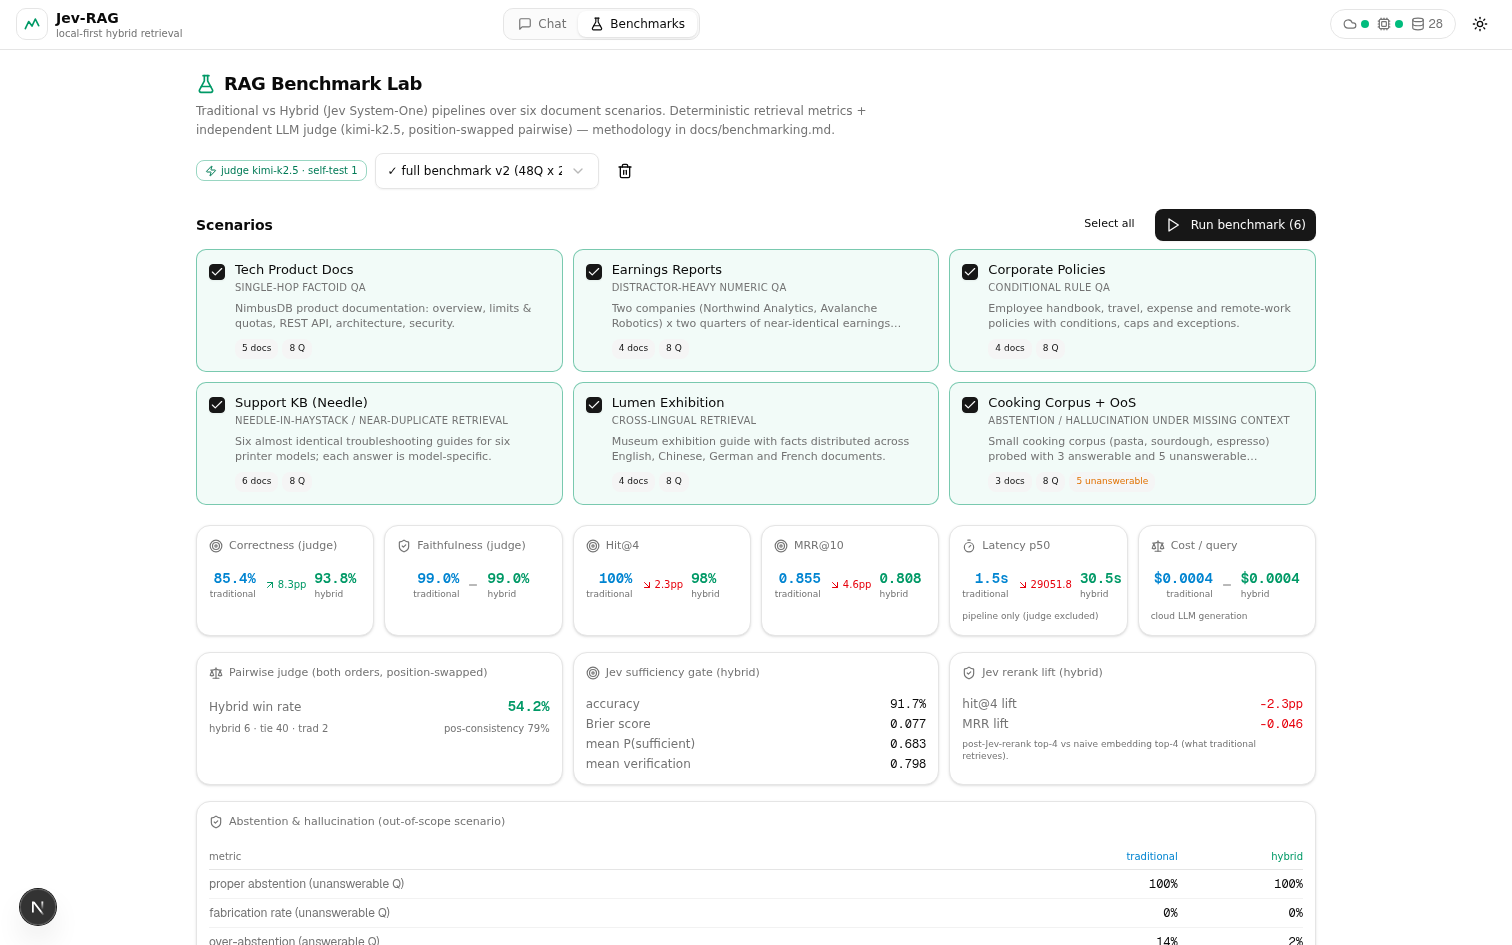
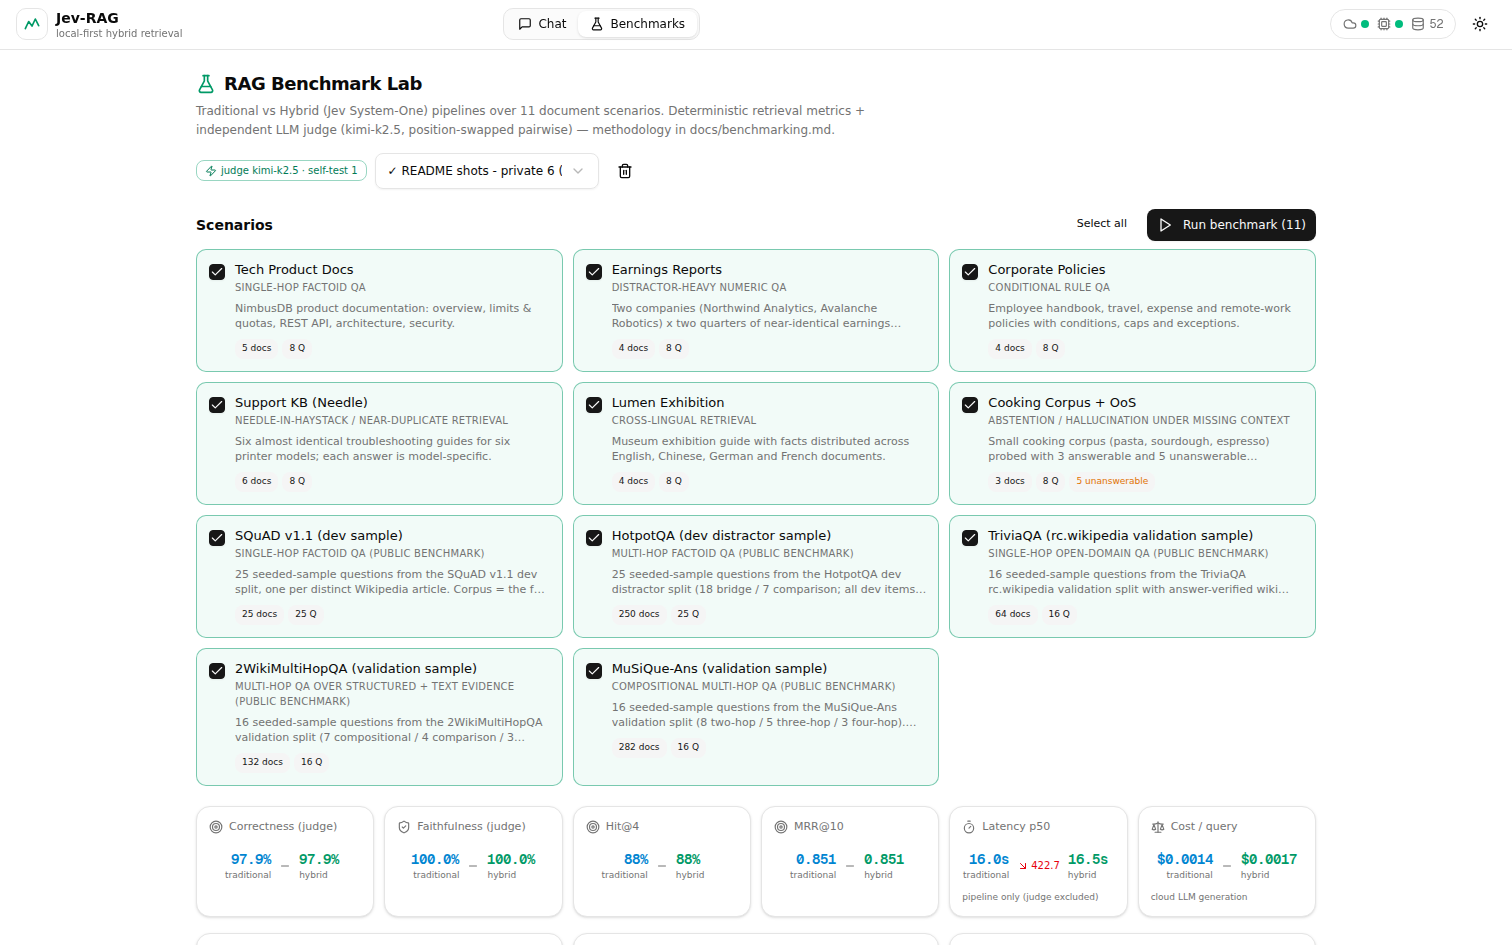
docs(assets): refresh the four README UI screenshots from the live app
The four live-browser shots dated from 2026-09-29 and predated bc1c93e, so the
benchmark pair still shows a 6-scenario lab and the hardcoded "six document
scenarios" subtitle; the catalog is 11 scenarios now. Re-captured against a
production build (bun run build && bun run start) so the Next.js dev-tools badge
stops appearing in every published image.

Added scripts/capture_ui_screenshots.py so a refresh is one command rather than a
remembered click path: Playwright against the running stack, 1512x945 @1x (the size
the README already ships), --only/--base-url/--out-dir. Two app behaviours it has
to work around are encoded in it: Compare mode auto-opens the trace panel
(store.ts::send), and a completed bench run with no judge summary renders empty
metric cards and blank charts.

bench-charts.png needed a populated dashboard, so a real run backs it - the 6
private corpora x 8 Q x 2 arms (48 Q, 96 rows), run c075af23, completed, summary
present. That run is the screenshot's data, not a published result: the +-5 pp
noise floor in the root AGENTS.md still governs anything compared against it.

Docs: README alt text now names what the shots actually show; docs/AGENTS.md and
scripts/AGENTS.md record the regeneration path and its two preconditions.

Verified: bun run lint clean, 173 backend tests pass, validate_docs.py exit 0,
and the app re-checked in a live browser with no console errors.

diff --git a/scripts/capture_ui_screenshots.py b/scripts/capture_ui_screenshots.py
@@ -1,0 +1,206 @@
+#!/usr/bin/env python3
+"""Capture the README / docs UI screenshots from the *live* app with Playwright.
+
+Why this exists: `docs/assets/img/{chat-compare,trace-panel,bench-lab,bench-charts}.png`
+are the four live-browser shots the README and `docs/usage.md` embed. They may only be
+regenerated from a running stack — the local FastAPI backend plus the Next.js frontend on
+:3000 — never from a mock or an image model (see `docs/AGENTS.md`, `assets/img/`).
+
+Prerequisites (nothing is installed by this script):
+  1. `bash scripts/dev.sh` from the repo root — backend :8000 + frontend :3000
+  2. a Playwright-enabled interpreter with the Chromium build already downloaded, e.g.
+     `/root/pwenv-t12/bin/python` on this box. `playwright` is deliberately NOT a
+     `backend/.venv` dependency, because it is only needed for docs rendering.
+
+Usage:
+  /root/pwenv-t12/bin/python scripts/capture_ui_screenshots.py
+  /root/pwenv-t12/bin/python scripts/capture_ui_screenshots.py --only trace-panel
+  /root/pwenv-t12/bin/python scripts/capture_ui_screenshots.py --base-url http://localhost:3000
+
+Each shot is a 1512x945 viewport at device_scale_factor=1 (the pixel size the README
+already ships, so the README table layout and repo weight do not move) in light theme.
+Asking the questions costs real cloud-LLM calls: two per question in Compare mode
+(one per pipeline), so the default two questions are four calls.
+"""
+from __future__ import annotations
+
+import argparse
+import sys
+from pathlib import Path
+
+try:
+    from playwright.sync_api import expect, sync_playwright
+except ModuleNotFoundError:  # pragma: no cover - operator guidance
+    sys.exit(
+        "playwright is not importable by this interpreter.\n"
+        "Use a Playwright-enabled interpreter (e.g. /root/pwenv-t12/bin/python); it is\n"
+        "not a backend/.venv dependency on purpose. See this script's docstring."
+    )
+
+REPO_ROOT = Path(__file__).resolve().parents[1]
+
+# 1512x945 @1x — the size the four existing shots were captured at.
+VIEWPORT = {"width": 1512, "height": 945}
+
+# Two questions over the shipped bench corpora, chosen because they read well and show
+# what the product is for: a multi-hop tech-docs lookup, then a finance question whose
+# near-identical distractor (Avalanche Robotics) is the whole point of the comparison.
+QUESTIONS = [
+    "NimbusDB: what are the Pro tier's sustained throughput and concurrent connection "
+    "limits, and which replication tier should ledger writes use?",
+    "What revenue did Northwind Analytics report for Q3 FY2026, and how did its cloud "
+    "analytics segment perform?",
+]
+
+SHOTS = ("chat-compare", "trace-panel", "bench-lab", "bench-charts")
+
+ANSWER_TIMEOUT_MS = 300_000  # hybrid answers run the local decision model + a cloud call
+
+
+def shot(page, out_dir: Path, name: str) -> None:
+    path = out_dir / f"{name}.png"
+    page.screenshot(path=str(path))
+    try:
+        shown = path.relative_to(REPO_ROOT)
+    except ValueError:  # --out-dir outside the repo
+        shown = path
+    print(f"saved {shown} ({path.stat().st_size // 1024} KB)")
+
+
+SCROLL_TO_TOP_JS = """(el, off) => {
+  let node = el.parentElement;
+  while (node && node !== document.body) {
+    const oy = getComputedStyle(node).overflowY;
+    if (oy === "auto" || oy === "scroll") {
+      node.scrollTop += el.getBoundingClientRect().top
+        - node.getBoundingClientRect().top - off;
+      return true;
+    }
+    node = node.parentElement;
+  }
+  window.scrollBy(0, el.getBoundingClientRect().top - off);
+  return false;
+}"""
+
+
+def scroll_to_in_container(page, locator, offset: int = 10, settle_ms: int = 700) -> None:
+    """Place `locator` `offset` px below the top of its scroll container.
+
+    Both scrolling views in this app scroll an inner div, not the window, so
+    window-level scrolling would land somewhere arbitrary.
+    """
+    locator.scroll_into_view_if_needed()
+    locator.evaluate(SCROLL_TO_TOP_JS, offset)
+    page.wait_for_timeout(settle_ms)  # recharts animates in on mount/scroll
+
+
+def wait_booted(page) -> None:
+    page.get_by_text("Jev-RAG").first.wait_for(state="visible", timeout=60_000)
+    # The header shows this while app.init() warms the stack and fetches documents.
+    booting = page.get_by_text("waking local models")
+    try:
+        booting.first.wait_for(state="detached", timeout=120_000)
+    except Exception:
+        print("  ! still showing 'waking local models' — capturing anyway", file=sys.stderr)
+    page.wait_for_timeout(1_200)
+
+
+def ask(page, question: str) -> None:
+    box = page.locator("textarea").first
+    box.click()
+    box.fill(question)
+    box.press("Enter")
+    # The composer locks while a stream is in flight; the lock is the only reliable
+    # "the answer finished" signal the UI exposes.
+    try:
+        expect(box).to_be_disabled(timeout=25_000)
+    except AssertionError:
+        pass  # very short answer finished before we polled
+    expect(box).to_be_enabled(timeout=ANSWER_TIMEOUT_MS)
+    page.wait_for_timeout(1_500)  # let latency/token/cost badges settle
+
+
+def capture(page, out_dir: Path, want: set[str]) -> None:
+    chat_shots = want & {"chat-compare", "trace-panel"}
+    if chat_shots:
+        print("· chat: new conversation, Compare mode, two questions")
+        page.get_by_role("button", name="New chat").click()
+        page.get_by_role("tab", name="Compare").click()
+        for question in QUESTIONS:
+            print(f"  asking: {question[:64]}…")
+            ask(page, question)
+
+        # Frame the last exchange from its question bubble down: the answers are long
+        # enough that two pairs do not fit, and a mid-sentence clip at the top edge
+        # reads as a mistake.
+        scroll_to_in_container(page, page.get_by_text(QUESTIONS[-1]).first,
+                               offset=110, settle_ms=500)
+
+        if "chat-compare" in want:
+            # Compare mode auto-opens the trace panel (store.ts `send`), which would
+            # squeeze the two answers into narrow columns — close it for this shot.
+            close = page.get_by_role("button", name="Close trace panel")
+            if close.count():
+                close.click()
+                page.wait_for_timeout(600)
+            shot(page, out_dir, "chat-compare")
+
+    if "trace-panel" in want:
+        print("· trace panel: last hybrid answer")
+        page.get_by_role("button", name="View trace").last.click()
+        expect(page.get_by_text("Pipeline trace")).to_be_visible(timeout=15_000)
+        page.wait_for_timeout(1_200)
+        shot(page, out_dir, "trace-panel")
+        page.get_by_role("button", name="Close trace panel").click()
+        page.wait_for_timeout(400)
+
+    if not want & {"bench-lab", "bench-charts"}:
+        return
+
+    print("· benchmark lab")
+    page.get_by_role("button", name="Switch to Benchmarks").click()
+    expect(page.get_by_text("RAG Benchmark Lab")).to_be_visible(timeout=20_000)
+    # BenchView.init() loads the catalog + run list, then auto-selects the newest
+    # completed run — that is what puts the metric cards and both panels on screen.
+    expect(page.get_by_text("loading runs…")).to_be_hidden(timeout=60_000)
+    expect(page.get_by_text("Correctness per scenario")).to_be_visible(timeout=90_000)
+    page.wait_for_timeout(1_500)
+
+    if "bench-lab" in want:
+        shot(page, out_dir, "bench-lab")
+
+    if "bench-charts" in want:
+        scroll_to_in_container(
+            page, page.locator('[data-slot="card"]', has_text="Correctness per scenario").first)
+        shot(page, out_dir, "bench-charts")
+
+
+def main() -> None:
+    ap = argparse.ArgumentParser(description=__doc__.splitlines()[0])
+    ap.add_argument("--base-url", default="http://localhost:3000",
+                    help="running frontend (default: %(default)s)")
+    ap.add_argument("--out-dir", default=str(REPO_ROOT / "docs" / "assets" / "img"),
+                    help="where the PNGs land (default: docs/assets/img)")
+    ap.add_argument("--only", default="",
+                    help=f"comma-separated subset of {', '.join(SHOTS)} (default: all)")
+    args = ap.parse_args()
+
+    want = {s.strip() for s in args.only.split(",") if s.strip()} or set(SHOTS)
+    unknown = want - set(SHOTS)
+    if unknown:
+        ap.error(f"unknown shot(s): {', '.join(sorted(unknown))}")
+    out_dir = Path(args.out_dir)
+    out_dir.mkdir(parents=True, exist_ok=True)
+
+    with sync_playwright() as p:
+        browser = p.chromium.launch(args=["--force-color-profile=srgb"])
+        page = browser.new_page(viewport=VIEWPORT, device_scale_factor=1,
+                                color_scheme="light", reduced_motion="reduce")
+        page.goto(args.base_url, wait_until="domcontentloaded")
+        wait_booted(page)
+        capture(page, out_dir, want)
+        browser.close()
+
+
+if __name__ == "__main__":
+    main()

diff --git a/docs/dev/worklog.md b/docs/dev/worklog.md
@@ -4,6 +4,51 @@ Single shared work log for all agents working in this repo. Append-only; each
 section starts with `---`. Newest at top.
 
 ---
+Task ID: readme-screenshots (2026-10-04)
+Agent: OpenCode session (owner's Windows workstation + WSL2 Ubuntu-24.04)
+Task: refresh the four live-browser UI screenshots the README and docs/usage.md embed.
+
+Work Log:
+- The four shots dated from 2026-09-29 and predated `bc1c93e` (results-dashboard rewrite),
+  so `bench-lab`/`bench-charts` showed a 6-scenario lab and a hardcoded "six document
+  scenarios" subtitle that no longer exists — the catalog is 11 scenarios now.
+- Added `scripts/capture_ui_screenshots.py` (Playwright, sync API, repo-root-anchored,
+  `--only`/`--base-url`/`--out-dir`) instead of capturing by hand, so a refresh is one
+  command instead of a remembered click path. Same 1512x945 @1x viewport the README already
+  shipped, so the table layout and repo weight barely move (605 KB -> 788 KB for all four).
+- Two app behaviours the capture has to work around, both now encoded in the script:
+  (a) Compare mode AUTO-OPENS the trace panel (`store.ts::send` sets `traceOpen: true`), so
+  the naive `chat-compare` capture renders two 300 px answer columns with the trace panel
+  eating a third of the frame — the script closes it first;
+  (b) `BenchView.init()` auto-selects the newest completed run, and a completed run with no
+  judge `summary` renders EMPTY metric cards and BLANK charts (all four per-scenario charts
+  showed only an axis label). Worth knowing before anyone screenshots this page.
+- `next dev` paints its dev-tools badge (the dark "N" circle, bottom-left) into every shot —
+  it is in all four published images to this day. Captured against `bun run build &&
+  bun run start` instead, which also means the shots show the production UI.
+- `backend/data` had no run left with a judge summary, so to get a populated dashboard I ran
+  a real one through the API: the 6 private corpora x 8 Q x 2 arms (48 Q, 96 rows), run
+  `c075af23`, `completed`, summary present, ~41 min for $0.35 of generator spend plus the
+  judge. Headline of that run (NOT published as evidence — screenshots are illustrative, and
+  the ±5 pp floor in the root AGENTS.md applies to any comparison): correctness 97.9% both
+  arms, faithfulness 100% both, hit@4 88%, MRR@10 0.851, pairwise hybrid win rate 47.9%
+  (hybrid 1 / tie 44 / trad 3), p50 latency 16.0 s vs 16.5 s.
+- Chat questions were chosen to show the product rather than to flatter it: a multi-hop
+  NimbusDB lookup, then a Northwind-vs-Avalanche earnings question where the near-identical
+  distractor is the point. The captured frame happens to make the case in one line —
+  traditional reports "the exact total revenue figure is missing from the provided context"
+  while hybrid sums the segments to $142.8 million, which is what the document says.
+- FINDING, not fixed here (it is a code change, not a screenshot refresh): the
+  "Jev groundedness check" trace card renders its numeric `answer` bare — `DecisionAnswer`,
+  `trace-panel.tsx:40-42` prints a number with no label, so the published trace screenshot
+  shows a floating `0.822` above the true/false bars. One-line fix, needs its own change.
+- Docs touched: README screenshot alt text now names what the shots actually show (quality
+  badge alongside grounded, the five decision cards, 11 scenarios); `docs/AGENTS.md` and
+  `scripts/AGENTS.md` record the regeneration path and its two preconditions (production
+  build, a summarised completed run). `docs/usage.md` needed no edit — its alt text was
+  still accurate.
+
+---
 Task ID: layer2-full9-r2 (2026-10-04)
 Agent: OpenCode session (owner's Windows workstation + WSL2 Ubuntu-24.04)
 Task: re-take the complete 9-arm Layer-2 testbench with parallel workers and update the

diff --git a/README.md b/README.md
@@ -27,14 +27,17 @@ It is **not** multi-tenant: no user accounts, no per-user ACLs — one SQLite da
 
 ## Screenshots
 
+All four shots below are captured from a running stack — local FastAPI backend plus this
+frontend — by `scripts/capture_ui_screenshots.py`. Nothing here is mocked.
+
 <div align="center">
-  <img src="docs/assets/img/chat-compare.png" alt="Chat view comparing traditional and hybrid answers side by side, with citations and a groundedness badge" width="880"/>
+  <img src="docs/assets/img/chat-compare.png" alt="Chat view comparing traditional and hybrid answers side by side, with citation chips and quality and groundedness badges" width="880"/>
 </div>
 
 | Trace panel — every local decision, with calibrated probabilities | Benchmark Lab — pick scenarios, run both arms |
 | --- | --- |
-| <img src="docs/assets/img/trace-panel.png" alt="Trace panel showing retrieval, gate score and decision cards with probability bars"/> | <img src="docs/assets/img/bench-lab.png" alt="Benchmark Lab scenario cards and run controls"/> |
-| <img src="docs/assets/img/bench-charts.png" alt="Results dashboard with judge metrics and per-scenario comparison charts"/> | |
+| <img src="docs/assets/img/trace-panel.png" alt="Trace panel listing the local decisions for one hybrid answer — effort routing, cross-encoder rerank, escalation gate, citation verification, groundedness check — each with probability bars and latency"/> | <img src="docs/assets/img/bench-lab.png" alt="Benchmark Lab with eleven scenario cards, run controls and the metric cards of a completed run"/> |
+| <img src="docs/assets/img/bench-charts.png" alt="Results dashboard with judge metric cards and per-scenario comparison charts, above the per-question results table"/> | |
 
 ## Requirements
 

diff --git a/scripts/AGENTS.md b/scripts/AGENTS.md
@@ -111,6 +111,20 @@
   a traceback. Exit 1 on any error. Run it before pushing any docs change — it is a CI job,
   not an optional check. Formerly README-only (`validate_readme.py`), then briefly every
   tracked `.md`.
+- `capture_ui_screenshots.py` — regenerates the four live-browser README shots
+  (`docs/assets/img/{chat-compare,trace-panel,bench-lab,bench-charts}.png`) by driving the
+  **running** app with Playwright: 1512x945 at device_scale_factor=1 (the pixel size the
+  README already ships), light theme, repo-root-anchored, `--only`/`--base-url`/`--out-dir`.
+  Chat half: New chat → Compare → the two `QUESTIONS` → close the trace panel (Compare
+  auto-opens it, `store.ts::send`) → frame the last exchange from its question bubble →
+  `chat-compare.png`; then View trace on the last hybrid answer → `trace-panel.png`.
+  Bench half: switch to Benchmarks and wait — `BenchView.init()` auto-selects the newest
+  **completed** run, and the dashboard renders blank metric cards and empty charts for a run
+  with no judge `summary`, so refresh `bench-charts.png` only against a fully summarised run.
+  Costs real cloud calls (two per question in Compare) and needs a Playwright-enabled
+  interpreter (`playwright` is deliberately not a `backend/.venv` dependency, same as
+  `render_social_preview.py`). **Capture against a production build** (`bun run build &&
+  bun run start`) — `next dev` paints its dev-tools badge into every shot.
 - `render_social_preview.py` + `social_preview.html` — regenerates the repo social
   preview card (Playwright, 1280×640 at **1×**) into `docs/assets/img/social-preview.png`.
   1× is required, not cosmetic: GitHub caps the social preview under 1 MB and recommends

diff --git a/docs/AGENTS.md b/docs/AGENTS.md
@@ -125,7 +125,13 @@
   `v3-results-chart.png`) and their `.mmd`/`.svg` siblings, `layer2-arm-results.png`,
   and `social-preview.png` (rendered by `scripts/render_social_preview.py`).
   UI shots are regenerable only from the live app (live-browser capture, not mocks);
-  refresh them after any UI change that alters what the README shows.
+  refresh them after any UI change that alters what the README shows. The regeneration
+  path is `scripts/capture_ui_screenshots.py` (Playwright against a running stack —
+  see `scripts/AGENTS.md`); it re-asks its two questions and re-selects the newest
+  completed bench run, so **the two chat shots cost four cloud calls** and
+  `bench-charts.png` needs a completed run with a judge summary in the data dir the
+  backend is serving. Capture from a production build (`bun run build && bun run start`):
+  `next dev` paints its dev-tools badge into every shot.
   Diagram PNGs (`v3-architecture-v2.png`, `escalation-gate-v2.png`, `v3-results-chart.png`)
   are produced by `assets/img/generate_diagrams.py` — a reproducible matplotlib script
   (run it **from** `docs/assets/img/`, its output filenames are CWD-relative), not an
